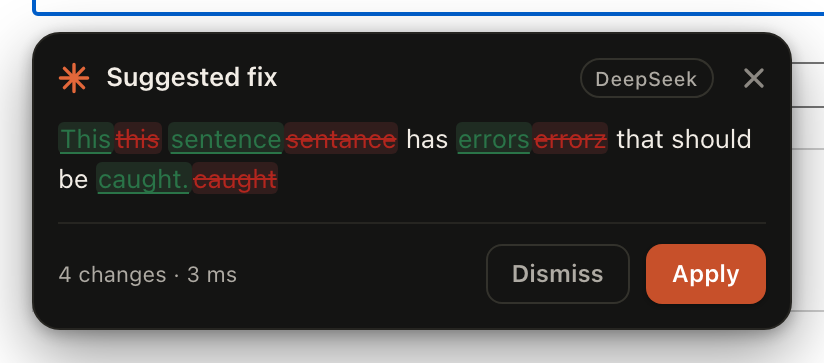
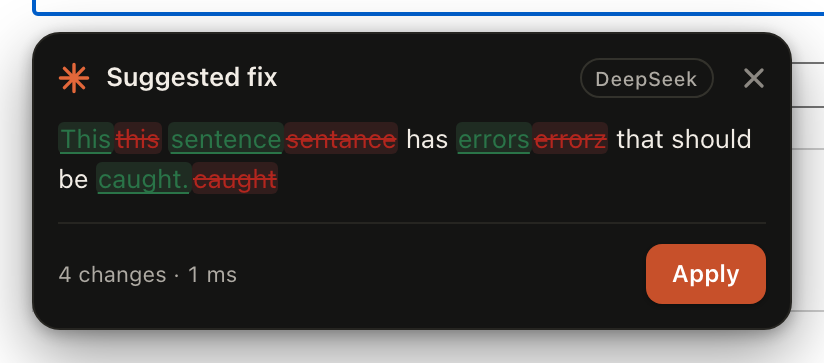
Card: drop the footer Dismiss button
The card already closes on a press anywhere outside it, on Esc, and on the
header ✕, so the footer button was a third way to do the same thing and it
competed with Apply / Replace for attention. The suggestion, applied and
translation footers now carry only their real actions.

- card screenshot pair regenerated (dark + light), translation card updated
- tests assert the footer actions explicitly instead of searching for text

diff --git a/content/ui.js b/content/ui.js
@@ -381,7 +381,7 @@
       head = headHTML({ title: 'Suggested fix', chip: chip, chipTitle: chipTitle });
       body = '<div class="ww-body"><div class="ww-diff" data-ww-diff></div></div>';
       foot = footHTML(ms ? changesLabel(changes) + ' · ' + ms : changesLabel(changes),
-        btnHTML('dismiss', 'Dismiss', false) + btnHTML('apply', 'Apply', true));
+        btnHTML('apply', 'Apply', true));
     } else if (state === 'clean') {
       head = headHTML({ title: 'Looks good', chip: chip, chipTitle: chipTitle });
       body = '<div class="ww-body"><p class="ww-sub">No changes needed.</p></div>';
@@ -389,9 +389,7 @@
     } else if (state === 'applied') {
       head = headHTML({ title: 'Applied', chip: chip, chipTitle: chipTitle });
       body = '<div class="ww-body"><p class="ww-sub">Your text has been updated.</p></div>';
-      foot = footHTML('',
-        (data.canUndo === false ? '' : btnHTML('undo', 'Undo', false)) +
-        btnHTML('dismiss', 'Dismiss', false));
+      foot = footHTML('', data.canUndo === false ? '' : btnHTML('undo', 'Undo', false));
     } else if (state === 'translation') {
       const translation = str(data.translation);
       const source = str(data.sourceLanguage);
@@ -403,7 +401,7 @@
       if (ms) metaBits.push(ms);
       const copyLabel = data.copied ? 'Copied' : 'Copy';
 
-      let buttons = btnHTML('dismiss', 'Dismiss', false);
+      let buttons = '';
       let primaryUsed = false;
       if (data.canReplace) {
         buttons += btnHTML('copy', copyLabel, false);

diff --git a/README.md b/README.md
@@ -35,12 +35,13 @@ Get a key: [platform.deepseek.com](https://platform.deepseek.com/api_keys) ·
 - You type in any `input`, `textarea` or `contenteditable` field.
 - After you stop for ~0.9 s, WriteWise sends the text to your provider and shows
   a card with an inline diff below the field.
-- **Apply** replaces the text in place. **Dismiss** leaves it alone.
+- **Apply** replaces the text in place. To leave it alone, click anywhere outside
+  the card, press `Esc`, or use the ✕.
   `Undo` after applying restores the original.
 - The field's own undo stack still works: textareas and inputs get a native
   value write + `input` event, contenteditable gets `execCommand('insertText')`.
 
-The card closes when you press `Esc` or click anywhere outside it.
+The card closes when you press `Esc`, click anywhere outside it, or hit its ✕.
 
 Keyboard: `Enter` applies when the card is focused · `Esc` dismisses ·
 `⌥⇧W` (Alt+Shift+W) checks the focused field on demand · right-click a text
